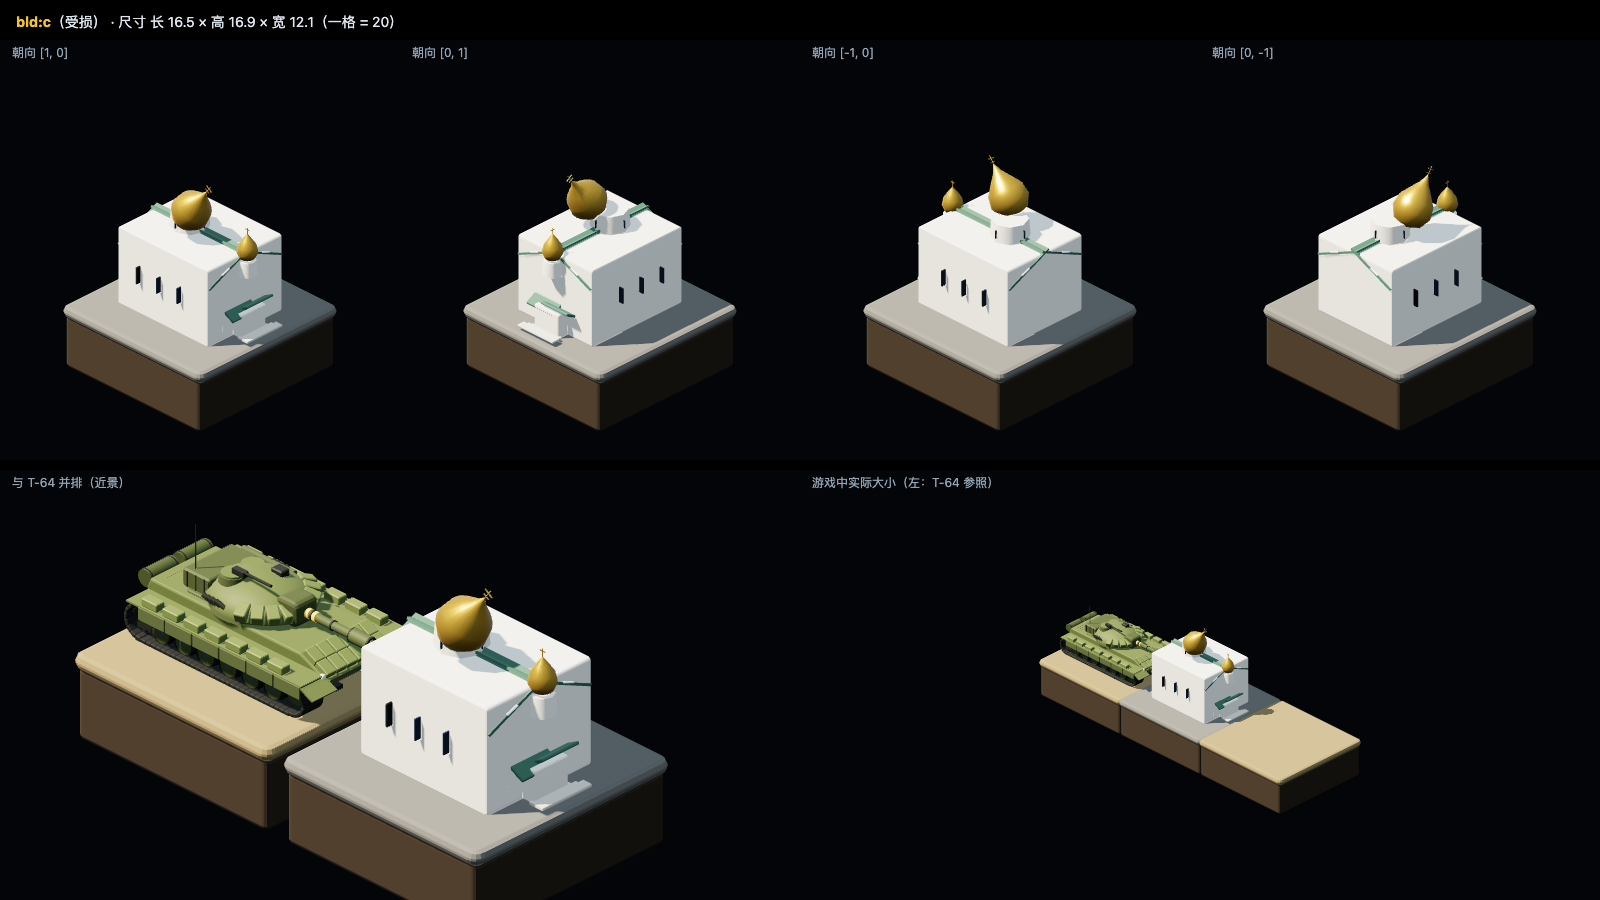
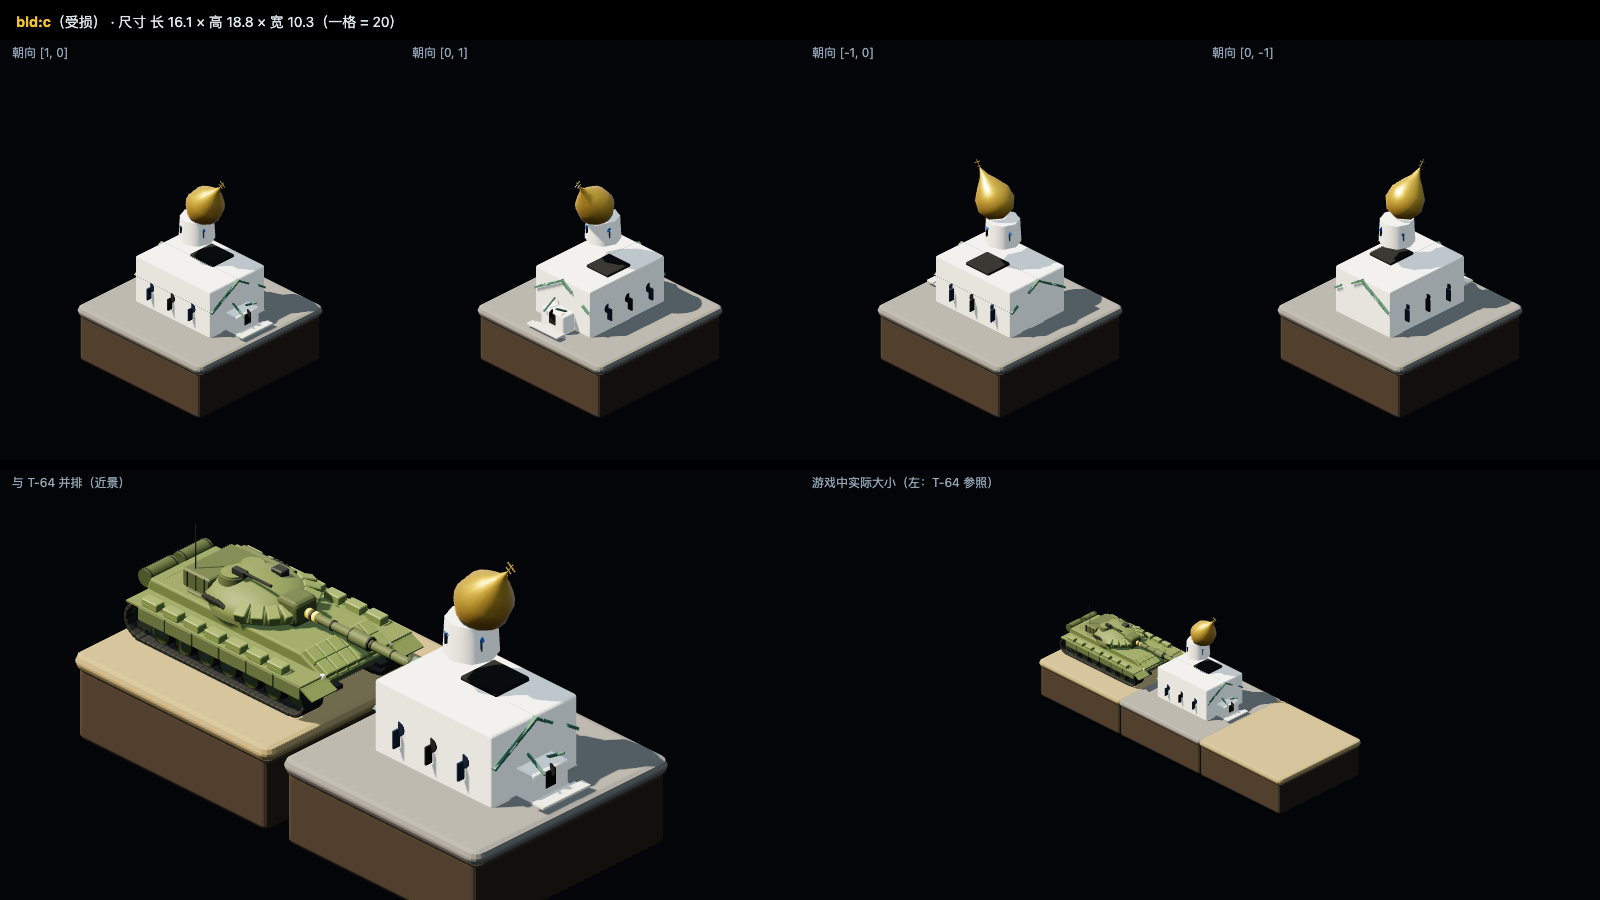
T-31: 第 2 轮修改（墙矮屋顶明显、拱窗、鼓座加高、门廊、受损差异）

diff --git a/game/js/models3d.js b/game/js/models3d.js
@@ -1020,51 +1020,53 @@ function m3BldC(seed, dmg) {
   const B = new THREE.Group();
   const WALL = mat3('#e7e3d8', 0.8), BLUE = mat3('#3b6fb6', 0.6), ROOFG = mat3('#4a705d', 0.7), SNOW = mat3('#eef2f4', 0.75);
   const DKS = mat3('#2d302a', 0.6, 0.3), GLS = mat3('#223044', 0.1, 0.3), GOLD = mat3('#e3b341', 0.3, 0.8);
-  // 1. chapel body with an entrance porch on the +x face
-  part(B, rbox(13, 9, 11, 0.16), WALL, 0, 4.5, 0);
-  part(B, rbox(1.7, 2.7, 3.6, 0.1, 1), WALL, 7.0, 1.35, 0);
-  for (const s of [-1, 1]) part(B, rbox(1.9, 0.16, 3.9, 0.06, 1), ROOFG, 7.0, 2.85, s * 1.05, 0, 0, -s * 0.5);
-  // 6. three steps before the porch
-  for (let k = 0; k < 3; k++) part(B, rbox(1.2 - k * 0.15, 0.2, 4.2 + k * 0.5, 0.04, 1), mat3('#c9c4b8', 0.85), 8.3 + k * 0.42, 0.1 + k * 0.2, 0);
-  // 2. three arched windows per long side
+  const INK = mat3('#141614', 0.9);
+  // 1. chapel body: 12 x 9 footprint, walls 6 high
+  part(B, rbox(12, 6, 9, 0.14), WALL, 0, 3.0, 0);
+  // 2. three arched windows per long side: rectangular glass, semicircular top, blue frame
   for (const s of [-1, 1]) for (let k = 0; k < 3; k++) {
-    const wx = -3.4 + k * 3.0, wy = 4.7, wz = s * 5.56;
-    part(B, rbox(0.1, 1.8, 1.0, 0.04, 1), GLS, wx, wy, wz);
-    part(B, new THREE.BoxGeometry(0.12, 2.2, 0.16), BLUE, wx, wy, s * 0.07);
-    part(B, new THREE.CylinderGeometry(0.52, 0.52, 0.14, 12, 1, false, 0, Math.PI), BLUE, wx, wy + 0.9, s * 0.07, 0, 0, HALF_PI);
+    const wx = -3.6 + k * 3.4, wy = 2.6, wz = s * 4.56;
+    const burnt = dmg && k === 1;
+    part(B, rbox(0.12, 1.5, 1.2, 0.04, 1), burnt ? INK : GLS, wx, wy - 0.45, wz);
+    part(B, new THREE.CylinderGeometry(0.6, 0.6, 0.12, 16, 1, false, 0, Math.PI), burnt ? INK : GLS, wx, wy + 0.3, wz, HALF_PI, 0, 0);
+    part(B, new THREE.CylinderGeometry(0.68, 0.68, 0.1, 16, 1, false, 0, Math.PI), BLUE, wx, wy + 0.3, s * 0.08, HALF_PI, 0, 0);
+    for (const dx of [-0.66, 0.66]) part(B, new THREE.BoxGeometry(0.14, 2.5, 0.14), BLUE, wx + dx, wy - 0.4, s * 0.08);
   }
-  // 3. green pitched roof with snow
+  // 3. green pitched roof: stepped boards down both slopes, snow; a hole on one slope when damaged
+  const slope = Math.atan2(3.0, 4.5);
   for (const s of [-1, 1]) {
-    const R = new THREE.Group(); R.position.set(0, 9.05, 0); R.rotation.x = s * Math.atan2(2.4, 6.2); B.add(R);
-    part(R, new THREE.BoxGeometry(13.6, 0.22, 6.4), ROOFG, 0, 0.05, s * 2.6).rotation.x = s * 0.05;
-    part(R, rbox(13.7, 0.07, 1.2, 0.03, 1), SNOW, 0, 0.14, s * 3.1);
-  }
-  // 4. octagonal drum with four small windows, golden onion dome, orthodox cross
-  part(B, cyl(2.0, 2.15, 2.2, 8), WALL, -1.5, 10.1, 0);
-  for (const a of [0, 1.57, 3.14, 4.71]) part(B, rbox(0.5, 0.9, 0.1, 0.03, 1), GLS, -1.5 + Math.cos(a) * 1.95, 10.1, Math.sin(a) * 1.95, 0, -a, 0);
-  const pts = [];
-  for (const [r, h] of [[0.05, 0], [1.5, 0.5], [2.15, 1.7], [1.95, 3.0], [1.1, 4.2], [0.5, 5.0], [0.22, 5.6], [0.03, 6.0]]) pts.push(new THREE.Vector2(r, h));
-  const ON = new THREE.Group(); ON.name = 'onion'; ON.position.set(-1.5, 11.2, 0); B.add(ON);
-  part(ON, new THREE.LatheGeometry(pts, 20), GOLD, 0, 0, 0);
-  part(ON, cyl(0.05, 0.05, 1.1, 6), GOLD, 0, 6.4, 0);
-  part(ON, new THREE.BoxGeometry(0.9, 0.09, 0.09), GOLD, 0, 6.6, 0);
-  part(ON, new THREE.BoxGeometry(0.62, 0.08, 0.08), GOLD, 0, 6.15, 0);
-  const SL = part(ON, new THREE.BoxGeometry(0.5, 0.07, 0.07), GOLD, 0, 5.6, 0); SL.rotation.z = 0.5;
-  // 5. small bell tower above the porch
-  part(B, cyl(1.0, 1.12, 1.7, 8), WALL, 7.0, 7.6, 0);
-  const pts2 = [];
-  for (const [r, h] of [[0.04, 0], [0.85, 0.3], [1.15, 0.95], [1.0, 1.7], [0.55, 2.4], [0.03, 3.1]]) pts2.push(new THREE.Vector2(r, h));
-  part(B, new THREE.LatheGeometry(pts2, 16), GOLD, 7.0, 8.45, 0);
-  part(B, cyl(0.04, 0.04, 0.7, 6), GOLD, 7.0, 11.9, 0);
-  part(B, new THREE.BoxGeometry(0.5, 0.07, 0.07), GOLD, 7.0, 12.05, 0);
-  // 7. damaged state: the main dome has toppled, a black hole on the drum, charred window, rubble
-  if (dmg) {
-    ON.rotation.z = -0.62; ON.position.set(-0.9, 10.6, 1.6);
-    part(B, cyl(1.15, 1.3, 0.4, 8), mat3('#141614', 0.85), -1.5, 10.9, 0);
-    part(B, rbox(0.12, 1.9, 1.1, 0.05, 1), mat3('#141614', 0.85), -3.4, 4.7, 5.5);
-    for (const [rx, rz, rr] of [[5.6, 1.4, 0.8], [4.9, -1.7, 0.6], [6.2, -0.6, 0.5]]) {
-      const rub = part(B, rbox(rr * 2.2, rr, rr * 1.7, 0.06, 1), WALL, rx, rr / 2, rz); rub.rotation.y = rr * 3;
+    const R = new THREE.Group(); R.position.set(0, 6.0, 0); R.rotation.x = s * slope; B.add(R);
+    for (let k = 0; k < 6; k++) {
+      if (dmg && s === -1 && k > 1 && k < 5) continue;
+      part(R, new THREE.BoxGeometry(12.9, 0.22, 1.2), k % 2 ? ROOFG : mat3('#43674f', 0.7), 0, 0.04 * k, s * (0.55 + k * 0.8));
     }
+    if (!(dmg && s === -1)) part(R, rbox(12.9, 0.07, 1.0, 0.03, 1), SNOW, 0, 0.16, s * 2.9);
+    if (dmg && s === -1) part(B, rbox(3.6, 1.7, 3.6, 0.1, 1), INK, 0.3, 5.5, s * 1.7);
+  }
+  // 4. octagonal drum on the ridge, four small arched windows, golden onion dome, orthodox cross
+  part(B, cyl(2.0, 2.15, 3.0, 8), WALL, -0.5, 10.5, 0);
+  for (const a of [0.4, 1.97, 3.54, 5.11]) {
+    part(B, rbox(0.45, 0.85, 0.1, 0.03, 1), GLS, -0.5 + Math.cos(a) * 1.9, 10.5, Math.sin(a) * 1.9, 0, -a, 0);
+    part(B, new THREE.CylinderGeometry(0.3, 0.3, 0.1, 10, 1, false, 0, Math.PI), BLUE, -0.5 + Math.cos(a) * 1.95, 11.0, Math.sin(a) * 1.95, HALF_PI, -a, 0);
+  }
+  const pts = [];
+  for (const [r, h] of [[0.05, 0], [1.6, 0.55], [2.3, 1.85], [2.1, 3.3], [1.2, 4.6], [0.55, 5.4], [0.24, 6.1], [0.03, 6.6]]) pts.push(new THREE.Vector2(r, h));
+  const ON = new THREE.Group(); ON.name = 'onion'; ON.position.set(-0.5, 12.0, 0); B.add(ON);
+  if (dmg) ON.rotation.z = -0.62;
+  part(ON, new THREE.LatheGeometry(pts, 20), GOLD, 0, 0, 0);
+  part(ON, cyl(0.05, 0.05, 1.15, 6), GOLD, 0, 7.0, 0);
+  part(ON, new THREE.BoxGeometry(0.95, 0.09, 0.09), GOLD, 0, 7.25, 0);
+  part(ON, new THREE.BoxGeometry(0.65, 0.08, 0.08), GOLD, 0, 6.75, 0);
+  const SL = part(ON, new THREE.BoxGeometry(0.52, 0.07, 0.07), GOLD, 0, 6.15, 0); SL.rotation.z = 0.5;
+  // 5. porch on the +x face: small triangular roof, one arched door, three steps
+  part(B, rbox(1.8, 2.3, 3.7, 0.1, 1), WALL, 6.9, 1.15, 0);
+  part(B, rbox(0.12, 1.4, 1.1, 0.04, 1), INK, 7.82, 1.5, 0);
+  part(B, new THREE.CylinderGeometry(0.55, 0.55, 0.12, 14, 1, false, 0, Math.PI), INK, 7.82, 2.2, 0, HALF_PI, 0, 0);
+  for (const s of [-1, 1]) part(B, rbox(2.1, 0.14, 0.2, 0.05, 1), ROOFG, 7.35, 2.85, s * 1.0, 0, 0, -s * 0.55);
+  for (let k = 0; k < 3; k++) part(B, rbox(1.2 - k * 0.15, 0.2, 4.0 + k * 0.5, 0.04, 1), mat3('#c9c4b8', 0.85), 8.3 + k * 0.4, 0.1 + k * 0.2, 0);
+  // 7. damaged: charred window already above; rubble at the base
+  if (dmg) for (const [rx, rz, rr] of [[4.9, 1.3, 0.8], [5.6, -1.2, 0.6], [4.2, 2.0, 0.5], [5.9, 0.3, 0.55], [4.6, -0.4, 0.7], [5.2, 1.9, 0.5]]) {
+    const rub = part(B, rbox(rr * 2.2, rr, rr * 1.7, 0.06, 1), WALL, rx, rr / 2, rz); rub.rotation.y = rr * 3;
   }
   return B;
 }

diff --git a/docs/tasks/T-31-精修教堂.md b/docs/tasks/T-31-精修教堂.md
@@ -70,6 +70,25 @@
 
 需审查方决定的问题：无。
 
+**第 2 轮（执行方：ZCode）**
+
+按第 1 轮审查意见逐条修改：
+1. **墙降为 6、占地 12 × 9**；屋顶照 `m3House` 的写法改为两坡各 6 块阶梯板条（绿/深绿相间），屋脊高出墙顶约 3，坡上有积雪条——不再是平顶加绿线。
+2. **拱形窗**：每扇宽 1.2、下半矩形高 1.5、上半用 `CylinderGeometry(0.6, 0.6, 0.12, 16, 1, false, 0, π)` 横放做半圆拱；蓝色拱圈 + 两侧蓝色窗梃；玻璃暗色；两侧长墙各 3 扇。
+3. **鼓座加高**：八边形鼓座高 3、半径 2，立在屋脊中央，鼓座上 4 扇小拱窗（玻璃 + 蓝色半圆拱）；洋葱顶坐在鼓座上（顶端总高约 19 ✓）。
+4. **门廊**：+x 正面门廊带小三角屋顶（两块斜板）、一扇深色拱形门（矩形 + 半圆拱）、门前 3 级台阶。
+5. **受损状态**：主洋葱顶连十字架整体倾斜 35° 歪向一侧；屋顶 -z 坡破洞（跳过 3 块板条，露出黑色内部盒）；一扇窗变熏黑破洞；墙脚 6 块碎块。完好/受损对比明显（bld_c-dmg.png：歪顶 + 屋顶黑洞 + 熏黑窗）。
+
+自测：
+- `node tools/check.js`：✓ 语法（19 个文件）；✓ 范围（仅 models3d.js）。
+- `node tools/playtest.js /tmp/pt-T-31r2`：`ERRORS none`，退出码 0。
+- `node tools/shot3d.js /tmp/s3-T-31r2`：`SHOT3D OK`，退出码 0；`model-shot` bld:c 与 bld:c dmg：均 `MODEL OK`。
+- `bld_c.png`、`bld_c-dmg.png` 重拍并逐张目检：墙矮屋顶明显、拱窗、鼓座高度、门廊台阶齐全；受损态歪顶/屋顶破洞/熏黑窗与完好态差异明显。
+
+需审查方决定的问题：无。
+
+## 审查意见（审查方写）
+
 ## 审查意见（审查方写）
 
 ## 审查意见（审查方写）
